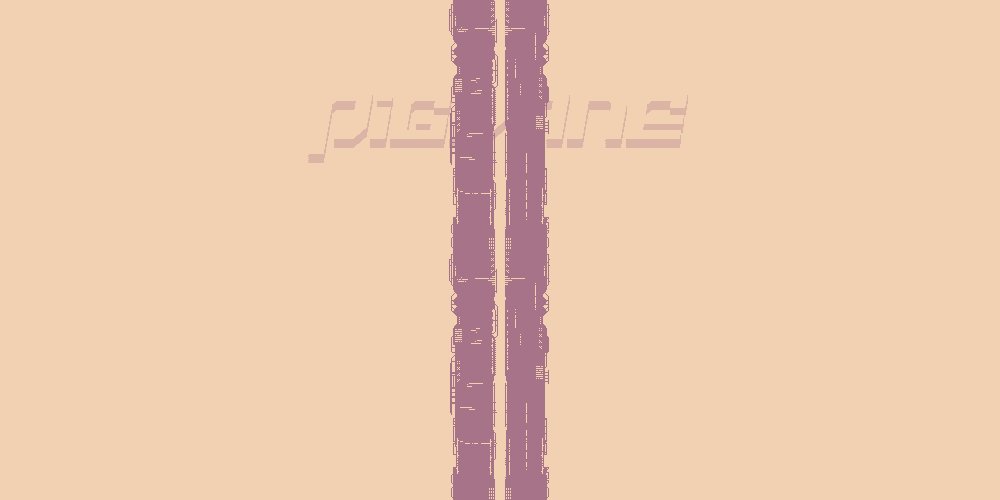
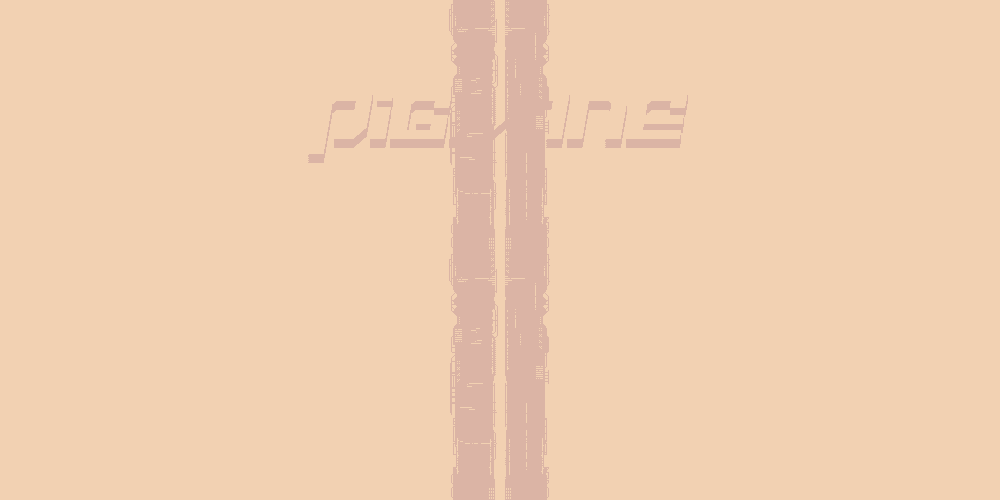
Overhauled menus and font. There's a highscore bug that needs to be fixed though

Changed region(s): [[0.434, 0.0, 0.558, 1.0]]

diff --git a/src/index.html b/src/index.html
@@ -20,7 +20,7 @@
 
 	@font-face {
 		font-family: 'Emulogic';
-		src: url('res/emulogic.ttf');
+		src: url('res/UpheavalPro.ttf');
 	}
 
 
